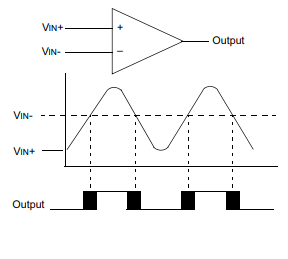
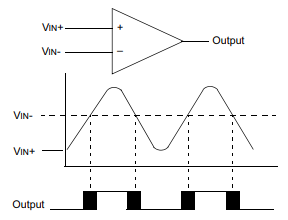
Informe: correcciones de detalle

diff --git a/TP2/doc/informe.tex b/TP2/doc/informe.tex
@@ -113,7 +113,7 @@ El registro de control del comparador (CMCON) contiene
 los bits para controlarlo.
 		
 \begin{figure}[h]\centering
-    \includegraphics[height=3cm]{informefig3.png}
+    \includegraphics[height=4cm]{informefig3.png}
     \caption{Resultado del comparador según los niveles de señales}
     \label{fig:analog-signal}
 \end{figure}
@@ -182,7 +182,7 @@ Estos dispositivos tienen 3 estados:
         El estado activo se logra cuando el voltaje de la base esta en un rango
 	intermedio entre la región de saturación y la de corte. 
 	Cuando logramos estabilizar el transistor es capaz de amplificar las 
-	señales de entrada las veces que tenga el valor de ß ya que este 
+	señales de entrada las veces que tenga el valor de $\beta$ ya que este 
 	multiplica la corriente del transistor.
     }    
 \end{itemize}
